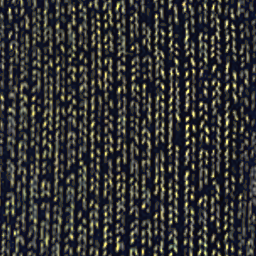
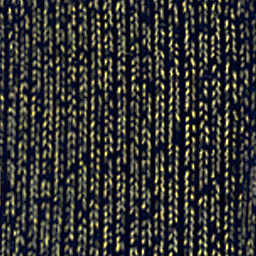
cabin777 econ w30 candidate (from w29 A 7.9 / B 8.1): tick ground deepened (sub-median 1.25x), stroke rim 0.55, column profile 0.3; diamond stars 0.7x / weave 1.15x; fleck tighter flattening, peak 1.35; mosaic pan own base #4d5779; pans 2.5 cm wider (no gaps under the arms); arms slimmer (0.047), re
Claude-Session: https://claude.ai/code/session_01UeiSga52a5gqrL3mUJK2vJ

diff --git a/cabin777/src/09a_econ.js b/cabin777/src/09a_econ.js
@@ -48,6 +48,14 @@ function econCrownLoft(secs, segC, crownAt) {
 const ECON_PAN = { ...SEATMAT.yFabric, c: photoBase('#535b7d', 'y_tick') };   // w27 (w26b-4): B/R 1.61-1.67 vs 1.74-1.81 -> a touch bluer; w26 (w25a-5 / w25b-2): L69-74 vs 77-91, still blue; w25 (w24b-4): tick pans B/R 2.17 vs ~1.8 -> less blue
 // w25 (w24a-1 / w24b-3): the diamond pan read as a bold field of light stars head-on (L99-101 vs 74 in y_47300) -> darker
 const ECON_PAN_B = { ...SEATMAT.yFabricB, c: photoBase('#414862', 'y_diamond'), l: LAYER.yDiamondPan };   // w28 (w27a-1 / w27b-1, high): photoBase lifts for the full-gain tile mean (2c = 0.4); at gain g the mean is 1 - 0.6 g, so the pan rendered ~1.8x too light (L107 vs 74) -> #4e5676 x (1 / (1 - 0.6 x 0.8)) / 2.5 x 0.88 in linear = #414862 (gain 0.8); w27 (w26a-1 / w26b-1): own layer at 0.45 gain (stars bright 0.21 vs 0.09); w26b: B/R 1.61 grey -> #4e5676; w26 (w25a-1 / w25b-1): B/R 2.27-2.41 vs 1.81
+// w30 (w29a-6): tick backs alternate a light heather pad (y_47300 seat D, L102-107, few flecks) and a dark fleck pad
+// (seat F, L57; L126 / bright share 0.06 in the matched q15 box ; a 3x crop shows a light cloudy mottle -> the diamond tile on a light base; the mosaic tile read busy, a plain weave read as plastic); every tick-back pad was one mid fleck (L75-81) [D]
+const ECON_HEAD_L = { ...SEATMAT.yFabricB, c: photoBase('#7080b0', 'y_diamond') }, ECON_HEAD_D = { ...SEATMAT.yHead, c: photoBase('#454f73', 'y_fleck') };
+const econHead = (F, k = 0, rot = 0) => F === SEATMAT.yFabricB ? SEATMAT.yFabricC : F === SEATMAT.yFabricC ? SEATMAT.yFabricB : F === SEATMAT.yFabricD ? SEATMAT.yFabric
+  : (((k >> 1) + rot) % 2 ? ECON_HEAD_D : ECON_HEAD_L);
+// w30 (w29b-6, w27b-6): the mosaic pan read light and blue in q15 (L98 B/R 1.86 vs y_47300 87 / 1.72) -> its own base [D]
+const ECON_PAN_C = { ...SEATMAT.yFabricC, c: photoBase('#4d5779', 'y_mosaic') };
+const econPanMat = (F) => F === SEATMAT.yFabric ? ECON_PAN : F === SEATMAT.yFabricB ? ECON_PAN_B : F === SEATMAT.yFabricC ? ECON_PAN_C : F;
 function econSeat(B, x0, lod, opts = {}) {
   const [hy, hz] = ECON.hinge;
   const F = opts.fab || SEATMAT.yFabric;
@@ -55,13 +63,15 @@ function econSeat(B, x0, lod, opts = {}) {
   // pan: the diamond seats carry the diamonds on the back only, the pan is the tick weave (y_47302 middle seat) [V]
   // w7 A + B: pans mix independently of the backs (y_47300: fleck back / tick pan, tick / diamond, fleck / mosaic) [V]
   let PF = opts.panFab || (F === SEATMAT.yFabricB ? SEATMAT.yFabric : F);
-  if (PF === SEATMAT.yFabric) PF = ECON_PAN; else if (PF === SEATMAT.yFabricB) PF = ECON_PAN_B;   // w10-w12 A: tick pans pale / grey (B/R 1.52-1.55 vs 1.74-1.90 in y_47300 / 47303)
+  PF = econPanMat(PF);   // w10-w12 A: tick pans pale / grey (B/R 1.52-1.55 vs 1.74-1.90 in y_47300 / 47303)
   // w14 gap: a deep ~5 cm fabric bullnose that tucks under to a narrower base (y_47302), set in a grey tray 5 cm behind
   // the pan front (the wide white tray showed as a 1.5-2 cm light lip under every pan) [D]
-  const ps = cushionSecs(0.43, 0.47, 0.095, -0.05, { edge: 0.05, r: 0.05, crown: 0.01 });
-  ps[0] = { ...ps[0], w: 0.39, d: 0.41, z: 0.02 };
+  // w30 (w29a-4): dark 11-23 px gaps between neighbouring pans in q15 where y_47300's pans abut under the arms -> 2.5 cm
+  // wider (edge 3 mm inside the arm's lower plate) [D]
+  const ps = cushionSecs(0.455, 0.47, 0.095, -0.05, { edge: 0.05, r: 0.05, crown: 0.01 });
+  ps[0] = { ...ps[0], w: 0.415, d: 0.41, z: 0.02 };
   ps[1] = { ...ps[1], y: ps[0].y + 0.03 };
-  ps.splice(1, 0, { ...ps[1], y: ps[0].y + 0.012, w: 0.415, d: 0.45, z: 0.008 });
+  ps.splice(1, 0, { ...ps[1], y: ps[0].y + 0.012, w: 0.44, d: 0.45, z: 0.008 });
   B.add(gLoft(ps, lod ? 3 : 4), M4.trs(x0, 0.415, -0.28, 0, 3 * DEG), PF);
   B.add(gRBox(0.39, 0.03, 0.40, 0.012, 1), M4.trs(x0, 0.35, -0.25), { c: '#7d8187', r: 0.5 });
   // back: rises above the headrest cushion to a rounded top (y_47306 all three seats, y_47301, sanspotter 13;
@@ -99,8 +109,7 @@ function econSeat(B, x0, lod, opts = {}) {
   // w14 gap: the whole headrest 2.5 cm higher, so the back rises ~3 cm above the cover fold (y_47300 0-1 cm, y_47301 ~3,
   // y_47302 ~4; only y_47306 shows the lowered ~5.5 cm) [D]
   // w17 B: fleck backs carry a tick pad and tick backs a fleck pad (y_47300 seats 1-4)
-  const econHead = (F) => F === SEATMAT.yFabricB ? SEATMAT.yFabricC : F === SEATMAT.yFabricC ? SEATMAT.yFabricB : F === SEATMAT.yFabricD ? SEATMAT.yFabric : SEATMAT.yHead;
-  const HF = econHead(F);
+  const HF = econHead(F, opts.hk || 0, opts.rot || 0);
   // w7 A + B: a U-shaped pad ~0.39 wide (0.90-0.96 of the back in y_47306 / 47302, sans 13) - a centre panel behind the
   // cover and two round wing bolsters ~2 cm proud of it at both ends; 0.025 lower so the back rises ~5.5 cm above the
   // cover fold (y_47306 0.053-0.073, y_47301 ~0.06; the fold showed above the hood from behind) [D]
@@ -143,9 +152,9 @@ function econSeat(B, x0, lod, opts = {}) {
       const sx = g.p[k + 1], sy = -g.p[k], sz = g.p[k + 2], l = Math.hypot(sx, sz) || 1;   // w11: sphere poles at the thin side tips (a pole on the face read as a tuft)
       const X = sx * (1 + 0.35 * sz * sz) * (0.92 + 0.08 * l), Z = sz * (1 + 0.35 * sx * sx) * (0.92 + 0.08 * l);   // w10 gap: smooth squircle (|t|^0.45 creased the middle)
       // w6: wider (0.39 = 0.8 of the pan, y_47300 0.81 / sans 14 0.83), bow-tie outline with pinched corners
-      const pull = 1 + 0.25 * Math.pow(Math.abs(X * Z), 2.5);   // w27 (w26a-4): softer, the w26 1.5 power read as a bone close up; w26 (w25b-5): dog-ear corners                                  // w9 A: corners pulled out (y_47300)
+      const pull = 1 + 0.3 * Math.pow(Math.abs(X * Z), 3);   // w27 (w26a-4): softer, the w26 1.5 power read as a bone close up; w26 (w25b-5): dog-ear corners                                  // w9 A: corners pulled out (y_47300)
       g.p[k] = 0.165 * X * (1 - 0.03 * (1 - Z * Z)) * pull; g.p[k + 2] = 0.11 * Z * (1 - 0.05 * (1 - X * X) - (Z > 0 ? 0.02 * (1 - X * X) : 0)) * pull;   // w14 gap: concave top edge   // w10 B: waist eased (read as a bone)
-      g.p[k + 1] = sy * (0.006 + 0.054 * Math.pow(Math.max(0, 1 - Math.pow(l, 3)), 0.6));   // thins to the seamed rim; w14 gap: ~10 cm full (p90/p10 1.3 vs 2.2-2.8 in y_47300 read as a board)
+      g.p[k + 1] = sy * (0.006 + 0.054 * Math.pow(Math.max(0, 1 - Math.pow(l, 3)), 0.5));   // w30 (w29a-5 / w29b-5): fuller dome, crisper dog-ears (pull ^3 x 0.3)   // thins to the seamed rim; w14 gap: ~10 cm full (p90/p10 1.3 vs 2.2-2.8 in y_47300 read as a board)
     }
     computeNormals(g);
     // w20 (gap19): 0.33 x 0.27 (0.77 of the back, y_47300 matched view; 0.93 read as one dark strip), 4 cm higher and 4 deg
@@ -155,10 +164,10 @@ function econSeat(B, x0, lod, opts = {}) {
     B.add(g, M4.mul(BH, M4.trs(0, 0.155, -0.112, 0, -74 * DEG)), SEATMAT.yPillow);
     // w19 A + B: a ~4 mm piped seam round the rim (y_47300 pillows), the same outline law at l = 1 [D]
     const rim = []; for (let i = 0; i <= 48; i++) {
-      const t = i / 48 * 2 * Math.PI, sx = Math.cos(t), sz = Math.sin(t), X = sx * (1 + 0.35 * sz * sz), Z = sz * (1 + 0.35 * sx * sx), pull = 1 + 0.25 * Math.pow(Math.abs(X * Z), 2.5);
+      const t = i / 48 * 2 * Math.PI, sx = Math.cos(t), sz = Math.sin(t), X = sx * (1 + 0.35 * sz * sz), Z = sz * (1 + 0.35 * sx * sx), pull = 1 + 0.3 * Math.pow(Math.abs(X * Z), 3);
       rim.push([0.165 * X * (1 - 0.03 * (1 - Z * Z)) * pull, 0, 0.11 * Z * (1 - 0.05 * (1 - X * X) - (Z > 0 ? 0.02 * (1 - X * X) : 0)) * pull]);
     }
-    B.add(gTube(rim, 0.0022, 6, false), M4.mul(BH, M4.trs(0, 0.155, -0.112, 0, -74 * DEG)), { ...SEATMAT.yPillow, c: '#353e5b' });   // w27 (w26b-5): pillow-coloured (a darker tube still read as a rim)   // w26 (w25b-5): thinner, darker (read as a light ring)   // w20 A + B: pillow-coloured piping (a darker ring read as an outline)
+    B.add(gTube(rim, 0.0022, 6, false), M4.mul(BH, M4.trs(0, 0.155, -0.112, 0, -74 * DEG)), { ...SEATMAT.yPillow, c: '#363c55' });   // w27 (w26b-5): pillow-coloured (a darker tube still read as a rim)   // w26 (w25b-5): thinner, darker (read as a light ring)   // w20 A + B: pillow-coloured piping (a darker ring read as an outline)
   }
   // life-vest pouch: dark saucer-shaped holder under the pan front with a red pull strap hanging from its rim (y_47302:
   // ~0.15-0.18 m discs under each seat) [D]
@@ -276,15 +285,15 @@ function econUnit(n, lod = false, opts = {}) {
   const B = new Builder();
   const sp = ECON.sp;
   const xs = []; for (let k = 0; k < n; k++) xs.push((k - (n - 1) / 2) * sp);
-  xs.forEach((x, k) => econSeat(B, x, lod, { ...opts, fab: econFab(k, n, opts.rot), panFab: econPan(k, n, opts.rot) }));
+  xs.forEach((x, k) => econSeat(B, x, lod, { ...opts, fab: econFab(k, n, opts.rot), hk: k, panFab: econPan(k, n, opts.rot) }));
   const arms = []; for (let k = 0; k <= n; k++) arms.push((k - n / 2) * sp);
   arms.forEach((xa, k) => {
     const armTilt = M4.mul(M4.trs(xa, 0.66, -0.08, 0, -4 * DEG), M4.trs(0, -0.66, 0.08));
     // sculpted off-white armrest (thick, rounded, slightly drooping nose) on a rear pivot post (y_47302 / 47303)
     // w5 B: a slim ~5.5 cm bar (y_47303 28 px on a 0.33 m / 160 px arm; fr57325 124108) with a drooping nose [D]
-    loftAt(B, [SEC(0.625, 0.046, 0.32, -0.24, 0.016), SEC(0.64, 0.054, 0.34, -0.24, 0.024), SEC(0.668, 0.052, 0.335, -0.24, 0.024), SEC(0.68, 0.044, 0.32, -0.235, 0.018)], armTilt, SEATMAT.arm, 3);   // w11 B: nose ~2 cm down (y_47303)
+    loftAt(B, [SEC(0.625, 0.04, 0.32, -0.24, 0.014), SEC(0.64, 0.047, 0.34, -0.24, 0.021), SEC(0.668, 0.046, 0.335, -0.24, 0.021), SEC(0.68, 0.039, 0.32, -0.235, 0.016)], armTilt, SEATMAT.arm, 3);   // w30 (w29a-1): 1.4x wide head-on (33-35 px vs 24-25 in y_47300) -> 0.054 -> 0.047 (B: 8.4, kept above A's 0.044)   // w11 B: nose ~2 cm down (y_47303)
     // w8 A: no separate knuckle block on the nose (the loft's rounded end carries it, y_47303)
-    B.add(gRBox(0.05, 0.008, 0.24, 0.004, 1), M4.mul(armTilt, M4.trs(0, 0.678, -0.235)), SEATMAT.armPad);
+    B.add(gRBox(0.043, 0.008, 0.24, 0.004, 1), M4.mul(armTilt, M4.trs(0, 0.678, -0.235)), SEATMAT.armPad);
     if (!opts.noScreen) {
       // w19 A + B: regular rows carry one C moulding, open at the front - the arm, a broad sweep down under its rear end and
       // a ~5.5 cm lower bar running forward at pan-top height to a rounded nose, ~6 cm under the arm (y_47303 near / right
@@ -297,8 +306,9 @@ function econUnit(n, lod = false, opts = {}) {
       B.add(ct, M4.trs(xa, 0, 0), SEATMAT.arm);
       const zs = (y, z0, z1, w) => SEC(y, w, z0 - z1, (z0 + z1) / 2, 0.009);
       const end = k === 0 || k === arms.length - 1;
+      // w30 (w29a-1): regular-row plate nose 3 cm further back, so the arm hides it head-on (y_47300 shows one bar) [D]
       loftAt(B, end ? [zs(0.415, -0.17, -0.31, 0.024), zs(0.425, -0.14, -0.36, 0.024), zs(0.44, -0.115, -0.39, 0.024), zs(0.46, -0.10, -0.398, 0.024), zs(0.50, -0.08, -0.40, 0.024), zs(0.525, -0.08, -0.392, 0.024), zs(0.538, -0.09, -0.37, 0.024), zs(0.543, -0.145, -0.33, 0.02)]
-        : [zs(0.48, -0.14, -0.365, 0.02), zs(0.488, -0.13, -0.383, 0.022), zs(0.51, -0.125, -0.392, 0.022), zs(0.532, -0.13, -0.383, 0.022), zs(0.54, -0.14, -0.365, 0.02)], M4.trs(xa + (end ? (k === 0 ? -0.013 : 0.013) : 0), 0, 0), SEATMAT.arm, 3);
+        : [zs(0.48, -0.14, -0.335, 0.02), zs(0.488, -0.13, -0.353, 0.022), zs(0.51, -0.125, -0.362, 0.022), zs(0.532, -0.13, -0.353, 0.022), zs(0.54, -0.14, -0.335, 0.02)], M4.trs(xa + (end ? (k === 0 ? -0.013 : 0.013) : 0), 0, 0), SEATMAT.arm, 3);
     } else {
       // front end: one continuous grey bracket from under the arm nose down past the pan, with a pivot ring at pan height;
       // the white paddle hangs from it (y_47302 / 47303; w2 B: was a ball on a stick) [D]
@@ -351,12 +361,12 @@ function econUnitFar(n, rot = 0) {
   for (let k = 0; k < n; k++) {
     const x0 = (k - (n - 1) / 2) * sp;
     const f = econFab(k, n, rot);
-    B.add(gRBox(0.43, 0.10, 0.47, 0.05, 1), M4.trs(x0, 0.41, -0.28, 0, 3 * DEG), econPan(k, n, rot) === SEATMAT.yFabric ? ECON_PAN : econPan(k, n, rot) === SEATMAT.yFabricB ? ECON_PAN_B : econPan(k, n, rot));
+    B.add(gRBox(0.455, 0.10, 0.47, 0.05, 1), M4.trs(x0, 0.41, -0.28, 0, 3 * DEG), econPanMat(econPan(k, n, rot)));
     const BH = M4.trs(x0, ECON.hinge[0], ECON.hinge[1], 0, ECON.back);
     B.add(gRBox(0.42, 0.86, 0.08, 0.035, 1), M4.mul(BH, M4.trs(0, 0.43, -0.005)), f);   // same mix as econUnit
     B.add(gRBox(0.446, 0.62, 0.045, 0.015, 1), M4.mul(BH, M4.trs(0, 0.25, 0.058)), SEATMAT.yShell);
     B.add(gRBox(0.40, 0.37, 0.12, 0.015, 1), M4.mul(BH, M4.trs(0, 0.665, 0.062)), SEATMAT.yShell);    // screen hood under the back top (w5; w6 0.40, tight corners; w14 gap: top 0.85, its white cap showed on every far back)
-    B.add(gRBox(0.39, 0.2, 0.11, 0.04, 1), M4.mul(BH, M4.trs(0, 0.70, -0.058)), f === SEATMAT.yFabricB ? SEATMAT.yFabricC : f === SEATMAT.yFabricC ? SEATMAT.yFabricB : f === SEATMAT.yFabricD ? SEATMAT.yFabric : SEATMAT.yHead);
+    B.add(gRBox(0.39, 0.2, 0.11, 0.04, 1), M4.mul(BH, M4.trs(0, 0.70, -0.058)), econHead(f, k, rot));
     B.add(gBox(0.245, 0.215, 0.01), M4.mul(BH, M4.trs(0, 0.6925, -0.108)), SEATMAT.yCover);
     B.add(gQuad(0.316, 0.205), M4.mul(BH, M4.trs(0, 0.7275, 0.1245)), SEATMAT.bezel);
     B.add(gQuad(0.294, 0.166), M4.mul(BH, M4.trs(0, 0.7275, 0.1265)), SEATMAT.screen, atlasUV('screen'));

diff --git a/cabin777/src/09_seats.js b/cabin777/src/09_seats.js
@@ -33,8 +33,8 @@ const SEATMAT = {
   yShellDark: { c: '#c2c5c9', r: 0.5, l: LAYER.plastic },
   yTray: { c: '#cfd2d6', r: 0.4, l: LAYER.plastic },
   yBelt: { c: '#25466a', r: 0.9, l: LAYER.fabric },        // y_47303 #325495 / #456198 (w5 B: #3a64a6 rendered sky-cyan; w6 B: #2e4c86 rendered #588ed0 vs y_47303 #38578c; w7 A: G/B 0.47 vs 0.61 -> teal lean)
-  yPillow: { c: '#394260', r: 0.9, l: LAYER.fabric },      // econ w27 (w26b-5): L50 vs 44 -> darker; y_47300 (44,53,88); econ w2: #2e3860 rendered #151b3e vs photo #30395f; w6 B: #4d5579 q15 L50 59 vs 44
-  arm: { c: '#c9c7c3', r: 0.45, l: LAYER.plastic },       // econ w25 (w24b-6): warm light grey (y_47300 B/R 0.95-0.975 vs 1.06); econ QA w1: light grey, y_47303 #afb2bc / y_47302 #9fa6ab
+  yPillow: { c: '#3a4159', r: 0.9, l: LAYER.fabric },      // econ w30 (w29a-5 / w29b-5): B/R 2.3 vs 2.0 -> less blue; econ w27 (w26b-5): L50 vs 44 -> darker; y_47300 (44,53,88); econ w2: #2e3860 rendered #151b3e vs photo #30395f; w6 B: #4d5579 q15 L50 59 vs 44
+  arm: { c: '#bfbcb8', r: 0.45, l: LAYER.plastic },       // econ w30 (w29b-8): q15 L164 vs 140 -> a step darker; econ w25 (w24b-6): warm light grey (y_47300 B/R 0.95-0.975 vs 1.06); econ QA w1: light grey, y_47303 #afb2bc / y_47302 #9fa6ab
   armPad: { c: '#bbbab6', r: 0.5, l: LAYER.plastic },
   armPost: { c: '#adaca8', r: 0.45, l: LAYER.plastic },    // econ w2: grey arm front bracket (y_47302 / 47303)
   frame: { c: '#a3a8ae', r: 0.32, m: 0.85, l: LAYER.brushed },

diff --git a/cabin777/test/qa.js b/cabin777/test/qa.js
@@ -31,7 +31,7 @@ const VIEWS = {
   q12_wing: [`(()=>{const s=__S('19A'); __app.sit(s,{instant:true}); __app.lookOut(s); __settle();})()`, [], 'window view of the wing and GE90'],
   q13_pyFront: [`__rel('25C',0.35,1.75,-0.72,Math.PI+0.45,-0.3)`, ['py_37302'], 'PY cabin from the front'],
   q14_seat26A: [`__rel('26A',1.3,1.3,-0.85,Math.PI*0.7,-0.2)`, ['py_37301', 'py_37303'], 'PY window pair from the side'],
-  q15_econFronts: [`(()=>{window.__near=1.25; ${walk(0, 1.45, 48.05, 'Math.PI', -0.30)}})()`, ['y_47300'], 'economy seat fronts looking aft (econ w24: row 34 D-G framed as y_47300, row 33 behind the near clip)'],
+  q15_econFronts: [`(()=>{window.__near=1.25; ${walk(0, 1.55, 48.05, 'Math.PI', -0.26)}})()`, ['y_47300'], 'economy seat fronts looking aft (econ w24: row 34 D-G framed as y_47300, row 33 behind the near clip)'],
   q16_econAisle: [walk(1.0, 1.85, 47.3, 'Math.PI+0.42', -0.36), ['y_47301'], 'economy from the right aisle looking aft (econ w24: framed as y_47301)'],
   q17_econBacks: [walk(0.35, 1.55, 49.4, '-Math.PI/2+0.25', -0.42), ['y_47303'], 'economy H-K from the right aisle looking outboard (econ w24: framed as y_47303)'],
   q18_seat35C: [`__sit('35C',0,-0.25)`, ['y_47305'], 'seated in 35C: seatback screen'],

diff --git a/cabin777/test/make_swatches.py b/cabin777/test/make_swatches.py
@@ -376,6 +376,9 @@ def y_photo(name):
     # second flattening on the periodic tile (wrap blur): a residual shading gradient inside the crop repeats as a visible
     # grid of light / dark squares (c3 fleck / mosaic)
     r = r / np.maximum(_blur_wrap(r.mean(2), 2.5 * hp * S / (x1 - x0)), 1e-3)[..., None]
+    # w30 (w29b-4): a dark cloud repeated at the same spot on every fleck back (low-pass CV 0.055 vs 0.030-0.037) -> a
+    # tighter second flattening for the fleck [D]
+    if name == 'y_fleck': r = r / np.maximum(_blur_wrap(r.mean(2), 1.2 * hp * S / (x1 - x0)), 1e-3)[..., None]
     if sharp: r = r + sharp * (r - _blur_wrap_rgb(r, 1.5))
     r = np.maximum(r, 0.03) ** k
     if floor: r = np.sqrt(r * r + floor * floor)       # lift the darkest yarn shadows only
@@ -383,15 +386,20 @@ def y_photo(name):
         # w16 A: the stitch columns wash out under minification (q15 column CV 0.05-0.07 vs 0.24 in y_47300): lift the
         # photo's own column profile (mean down each column) 1.6x so the dark channels survive the mip chain [D]
         c = r.mean(2).mean(0, keepdims=True); c = c / c.mean()
-        r = r * (c ** 0.15)[..., None]   # w20 (gap19): straight columns carry their own profile; 0.6 over-sharpened close up
+        r = r * (c ** 0.3)[..., None]   # w30 (w29a-3 / w29b-2): 0.15 -> 0.3, the column profile is what survives the mip chain (q15 back p90/p10 2.36 vs 2.92 after the deeper ground)   # w20 (gap19): straight columns carry their own profile; 0.6 over-sharpened close up
         m = np.median(r.mean(2)); r = np.where(r.mean(2, keepdims=True) > m, m + 0.72 * (r - m), r)   # w26 (w25a-3): 0.65 dimmed instead of thinning -> 0.72 + edge erosion below; w25 (w23a-2 / w23b-1): 0.8 -> 0.65 (q15 bright 0.12 vs 0.083; ~0.02 per 0.1)   # w21 / w22 B: strokes toward the ground (q15 bright 0.14 vs 0.083 after the -0.5 mip bias)
         # w26 (w25a-3 / w25b-2): strokes 1.5x the photo's coverage, blobs ~1.4x fat -> the stroke rim (above-median pixels with a
         # sub-median 4-neighbour) eases 60 % toward the ground, cores keep their peak [D]
         hi = r.mean(2) > m; core = hi & np.roll(hi, 1, 0) & np.roll(hi, -1, 0) & np.roll(hi, 1, 1) & np.roll(hi, -1, 1)
-        r = np.where((hi & ~core)[..., None], m + 0.4 * (r - m), r)
+        r = np.where((hi & ~core)[..., None], m + 0.55 * (r - m), r)   # w30 (w29a-3 / w29b-2): 0.4 -> 0.55 (strokes a hair fine, bright 0.09 vs 0.14)
+        # w30 (w29a-3 / w29b-2): the ground was too light (q15 back p10 52-56 vs 30-46, p90/p10 2.1-2.5 vs 2.9-3.4) with the
+        # stroke cover on target -> deepen the sub-median channels only [D]
+        r = np.where((r.mean(2) < m)[..., None], np.maximum(m - 1.25 * (m - r), 0.03), r)
     if name == 'y_diamond':
         # econ w25 (w23b-2): the lattice washed out on the bluer #5f6ba0 ground (e4 bright 0.03 vs 0.11 in y_47306) -> 1.25x [D]
-        m = np.median(r.mean(2)); r = np.maximum(m + 1.05 * (r - m), 0.03)   # w26 (w25a-1 / w25b-1): 1.25 overshot (e1 p90/50 1.79 vs 1.51)
+        # w30 (w29a-2 / w29b-7): the stars read bold and few at row distance (q15 back coverage 0.23 vs 0.12, blobs 21 vs 7 px)
+        # while the weave between them was faint -> the > 4 px star band 0.7x, the fine weave 1.15x [D]
+        m = np.median(r.mean(2)); lo = _blur_wrap_rgb(r, 4); r = np.maximum(m + 0.7 * 1.05 * (lo - m) + 1.15 * (r - lo), 0.03)   # w26 (w25a-1 / w25b-1): 1.25 overshot (e1 p90/50 1.79 vs 1.51)
     if name == 'y_fleck':
         # the 3.4 mm/px source smears each 3-5 mm fleck over ~3 px: keep only the core of the excess over the ground
         # (bright area 27 % -> ~12 %, y_47306 pad 11 %) and tint it pale blue (#9fb0e0 vs white, w15 A) [D]
@@ -404,7 +412,7 @@ def y_photo(name):
         base = np.minimum(r, g); dd = np.clip(_blur_wrap(dm, 1.5) * 2.0, 0, 1)
         out = (1 - np.clip(dd * 3, 0, 1)).astype(np.float32)        # the local ground around each dropped fleck fills it
         gl = np.stack([_blur_wrap(base[..., c] * out, 3.0) for c in range(3)], 2) / np.maximum(_blur_wrap(out, 3.0), 1e-3)[..., None]
-        r = base * (1 - dd[..., None]) + gl * dd[..., None] + 1.25 * ep * (e / ep) ** 1.0 * np.array([1.02, 1.0, 0.92], np.float32)   # w25 (w24a-2): distance flecks weak (p90/p10 2.48 vs 3.05)   # w20 A + B: fewer, less blue cores (B/R 3.0 vs 2.54); w22 B: exp 1.2 (bright 0.18 vs 0.153 after the mip bias)   # w20 (gap19): 1.25 thinned the flecks away at row distance
+        r = base * (1 - dd[..., None]) + gl * dd[..., None] + 1.35 * ep * (e / ep) ** 1.0 * np.array([1.02, 1.0, 0.92], np.float32)   # w30 (w29a-7): 1.25 -> 1.35 (q15 fleck p90/p10 0.88x the photo's)   # w25 (w24a-2): distance flecks weak (p90/p10 2.48 vs 3.05)   # w20 A + B: fewer, less blue cores (B/R 3.0 vs 2.54); w22 B: exp 1.2 (bright 0.18 vs 0.153 after the mip bias)   # w20 (gap19): 1.25 thinned the flecks away at row distance
     # w20 (gap19): the 0.5-2.5 cm band (columns, flecks, dashes) is what survives at row distance; boost it in log luminance and
     # damp the < 1.2 mm JPEG grain (tile CV at 150 px/m: tick 0.31 vs 0.46-0.49 in y_47300, fleck 0.31 vs 0.84) [D]
     # w20 A + B: the full boost overshot (q15 tick bright 0.15 vs 0.083, fleck 0.20 vs 0.154) -> half on tick / fleck
